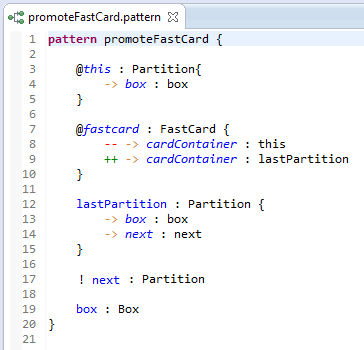
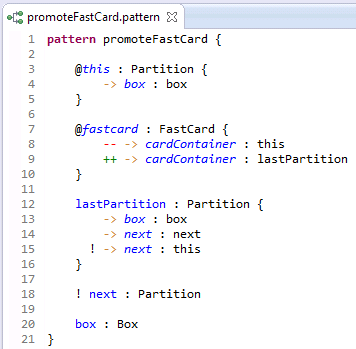
Corrected bug in handbook thanks to Sebastian Thöne

diff --git a/Handbook/03_storyDiagrams/11_fastCards/visFastCard.tex b/Handbook/03_storyDiagrams/11_fastCards/visFastCard.tex
@@ -77,9 +77,10 @@ method whose return value would be the bound value. This is very useful as it al
 \item[$\blacktriangleright$] To finalize the SDM, extract the \texttt{promoteFastCard} story pattern and build the pattern according to
 Fig.~\ref{ea:promoteFastCardPattern}. Compare this pattern to Figs.~\ref{ea:sdm_check_complete_activity_node} and \ref{ea:sdm_check_complete_penalize}, the
 original promotion and penalizing card movements. As you can see, they're very similar, except \texttt{fastCard} is transferred from the current partition
-(\texttt{this}) immediately to the last partition in \texttt{box}, identified as having no \texttt{nextPartition} with an appropriate NAC.
+(\texttt{this}) immediately to the last partition in \texttt{box}, identified as having no next \texttt{Partition} with an appropriate NAC.
+Note that a second NAC is used to handle the case where \texttt{this} would be the next \texttt{Partition}, which is also not want we want.
 
-\begin{figure}[htbp]
+\begin{figure}[htbp] 
 \begin{center}
   \includegraphics[width=\textwidth]{ea_promoteFastCardPattern}
   \caption{Story pattern for handling fast cards.}  

diff --git a/Handbook/03_storyDiagrams/11_fastCards/texFastCard.tex b/Handbook/03_storyDiagrams/11_fastCards/texFastCard.tex
@@ -10,7 +10,7 @@ new attributes or methods, so leave its specification empty. It should resemble 
 
 \vspace{0.5cm}
 
-\begin{figure}[htp]
+\begin{figure}[htp] 
 \begin{center}
   \includegraphics[width=0.45\textwidth]{eclipse_fastCardClass}
   \caption{\texttt{FastCard}s are a special type of \texttt{Card}}
